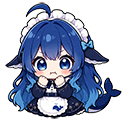
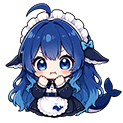
fix(deliverables): changed-files review accepts observed files; fixed sidebar mark (2.4.31)

diff --git a/packages/client/ui-deliverables/tests/review-tab.client.spec.tsx b/packages/client/ui-deliverables/tests/review-tab.client.spec.tsx
@@ -37,12 +37,13 @@ const ADDRESS = changesReviewAddress(COORDINATES)
 const SUMMARY_URL = changesSummaryUrl(SESSION, 5)
 
 const summary: ChangesSummary = {
-  turn: 2, total: 4, added: 4, deleted: 2,
+  turn: 2, total: 5, added: 4, deleted: 2,
   files: [
     { path: 'src/app/main.ts', display: 'src/app/main.ts', added: 3, deleted: 1 },
     { path: '/tmp/out/big.bin', display: '~/out/big.bin', added: 0, deleted: 0, oversized: true },
     { path: 'notes.txt', display: 'notes.txt', added: 1, deleted: 1 },
     { path: 'logo.png', display: 'logo.png', added: 0, deleted: 0, binary: true },
+    { path: '.env', display: '.env', added: 0, deleted: 0, observed: true },
   ],
 }
 
@@ -216,6 +217,7 @@ describe('ReviewTab', () => {
     const items = view.getAllByRole('menuitem')
     expect(items.map(item => item.textContent)).toEqual([
       'src/app/main.ts+3-1', '~/out/big.bin' + en['changes.oversized'], 'notes.txt+1-1', 'logo.png' + en['changes.binary'],
+      '.env' + en['changes.observed'],
     ])
     fireEvent.click(items[0]!)
     expect(store.getSnapshot().byTab[TAB]?.index).toBe(0)

diff --git a/packages/client/ui-deliverables/tests/changes-open.host.spec.ts b/packages/client/ui-deliverables/tests/changes-open.host.spec.ts
@@ -120,6 +120,8 @@ describe('change comparison route', () => {
     expect(isChangesDiff({ ...text, hunks: [{ oldStart: 1, oldLines: 1, newStart: 1, newLines: 0, lines: ['-x', ' y', '+z'] }] })).toBe(true)
     expect(isChangesDiff({ kind: 'binary', path: 'a', display: 'a' })).toBe(true)
     expect(isChangesDiff({ kind: 'oversized', path: 'a', display: 'a' })).toBe(true)
+    // fork(deliverables): a watcher-observed comparison carries no body (2.4.31).
+    expect(isChangesDiff({ kind: 'observed', path: 'a', display: 'a' })).toBe(true)
     expect(isChangesDiff({ kind: 'other', path: 'a', display: 'a' })).toBe(false)
     expect(isChangesDiff({ kind: 'binary', path: '', display: 'a' })).toBe(false)
     expect(isChangesDiff({ ...text, before: 'yes' })).toBe(false)

diff --git a/packages/client/ui-deliverables/src/client/ReviewTab.tsx b/packages/client/ui-deliverables/src/client/ReviewTab.tsx
@@ -53,6 +53,8 @@ function navigatedIndex(params: unknown): number | undefined {
 /** Added and deleted line counts in the card's colors. */
 function Counts({ file, t }: { file: WorkspaceChangedFile } & PropsLocale<typeof NS>): ReactNode {
   if (file.binary === true) return <span className={css.label}>{t('changes.binary')}</span>
+  // fork(deliverables): an observed file has no counts to show (2.4.31).
+  if (file.observed === true) return <span className={css.label}>{t('changes.observed')}</span>
   if (file.oversized === true) return <span className={css.label}>{t('changes.oversized')}</span>
   return <>
     <span className={css.added}>{t('changes.added', { count: GROUPED.format(file.added) })}</span>

diff --git a/packages/client/ui-deliverables/src/changes.ts b/packages/client/ui-deliverables/src/changes.ts
@@ -88,7 +88,8 @@ export function isChangesDiff(value: unknown): value is ChangesDiff {
   if (!isRecord(value)) return false
   const { kind, path, display } = value
   if (typeof path !== 'string' || path.length === 0 || typeof display !== 'string' || display.length === 0) return false
-  if (kind === 'binary' || kind === 'oversized') return true
+  // fork(deliverables): a watcher-observed file serves no comparison body (2.4.31).
+  if (kind === 'binary' || kind === 'oversized' || kind === 'observed') return true
   if (kind !== 'text') return false
   const { before, after, hunks, coarse } = value
   return typeof before === 'boolean' && typeof after === 'boolean' && typeof coarse === 'boolean'

diff --git a/FORK.md b/FORK.md
@@ -72,6 +72,8 @@ package is, does, and touches.
 | `packages/jobs/job-sentinel/src/sentinel.ts` | `pidOf` accepts the `(processes remain)` progress suffix (prefix match on `pid <n>`) (2.4.30) | Survivor rows keep their pid in the notices |
 | `packages/shell/tool-bash/tests/background.spec.ts` (+ `packages/jobs/job-sentinel/tests/sentinel.spec.ts`) | fork-marked: the two pre-existing event-sequence pins gain the 2.4.27 `pid` progress event they had been missing (they had drifted red since 2.4.27); a new describe pins the survivor contract — foreground result at command settlement with the record staying live, the survivor note on the row, `job_kill` reaching processes after the command exited, the un-awaited settlement, and the background twin (2.4.30) | The upstream specs compare real registry output |
 | `bundle-tools/hoist-parity.py` (+ `bundle-tools/README.md`) | the backfill now copies from the WORKSPACE build output first, the previous bundle only for packages absent from the workspace; the runbook documents the chronic deploy abort (~325 of 352 packages) that makes the backfill load-bearing and requires a per-changed-package freshness grep (2.4.30) | the 2.4.30 browser pass caught bash-local shipping stale from the 2.4.29 bundle — the old script silently backfilled changed packages from the previous release's tree |
+| `packages/client/ui-deliverables/src/changes.ts` (+ `src/client/ReviewTab.tsx`, `tests/{changes-open.host.spec.ts,review-tab.client.spec.tsx}`) | `isChangesDiff` accepts the `observed` comparison kind (the 2.4.29 client validator was not extended with the host kind, so a watcher-listed file's review tab and hover preview mapped the served payload to the error state — "Could not read the changes" with a Retry button); the review tab's file selector shows `detected` where an observed file's counts would be (2.4.31) | The comparison page of a watcher-listed file was dead — the exact files the 2.4.29 watcher added |
+| `packages/client/ui-fork-brand/src/client/assets/dslrh-mark.png` | the sidebar mark artwork replaced with the fixed 123×123 render (2.4.31) | The previous render had visual issues at size |
 | `packages/bundle/web-app/cordis.patch.yml` | host rows `context-fold` + `superpowers-bootstrap` + `ui-fork-info` beside `context-editor`; browser roster rows `ui-fork-info` + `ui-fork-auto-skills` | Bundle wiring |
 | Shipped-bundle launchers (`dsh`, `dsh-gui`, `dsh.cmd`, `dsh-gui.cmd`) | export `SLR_RUNTIME_API_KEY=slr-local` (guarded) and `DSH_BUNDLED_SKILL_DIR=<app>/node_modules/@deepseek-ai/dsh-superpowers-skills/skills` (guarded) | The slr-runtime preset works keyless out of the box; the bundled superpowers skills ride the app's node_modules with no extra copy step |
 | Shipped-bundle `browser/librewolf*/…/librewolf.cfg` | `devtools.debugger.remote-enabled` set to `true` (upstream LibreWolf forces it off) | The team's automation rig drives the bundled browser over WebDriver BiDi (`--remote-debugging-port`); inert unless that flag is passed |

diff --git a/bundle/README.md b/bundle/README.md
@@ -198,6 +198,14 @@ attention (`job_kill` stops one; `job_output`/`job_list` inspect). Closing
 the harness kills the whole process tree of everything it started; MCP
 servers and the included browser terminate through their own lifecycle.
 
+## Changed-files review works for detected files (2.4.31)
+
+Opening a "detected" file from the changed-files card dead-ended in
+"Could not read the changes" — the client's comparison validator
+predated the watcher's `observed` kind. It now renders the detected
+note, and the review tab's file selector shows "detected" in place of
+counts. The sidebar mark ships the fixed artwork.
+
 ## Jobs track everything a command opened (2.4.30)
 
 A job settles when the command's whole managed process range is empty,

diff --git a/docs/dslrh/05-fork-changes.md b/docs/dslrh/05-fork-changes.md
@@ -117,4 +117,8 @@ the command opened is actually closed, the live row says
 "pid N (processes remain)" once that is clearly the case, and the
 foreground result still returns the moment the command itself exits.
 The release also carries the fork's copyright line in the shipped
-LICENSE files.
+LICENSE files. 2.4.31 fixed the changed-files review for watcher-listed files — the
+client's comparison validator still spoke only text/binary/oversized, so
+opening a "detected" file dead-ended in an error; it now renders the
+detected note (in the review tab's file selector too) — and replaced the
+sidebar mark with the fixed artwork.
